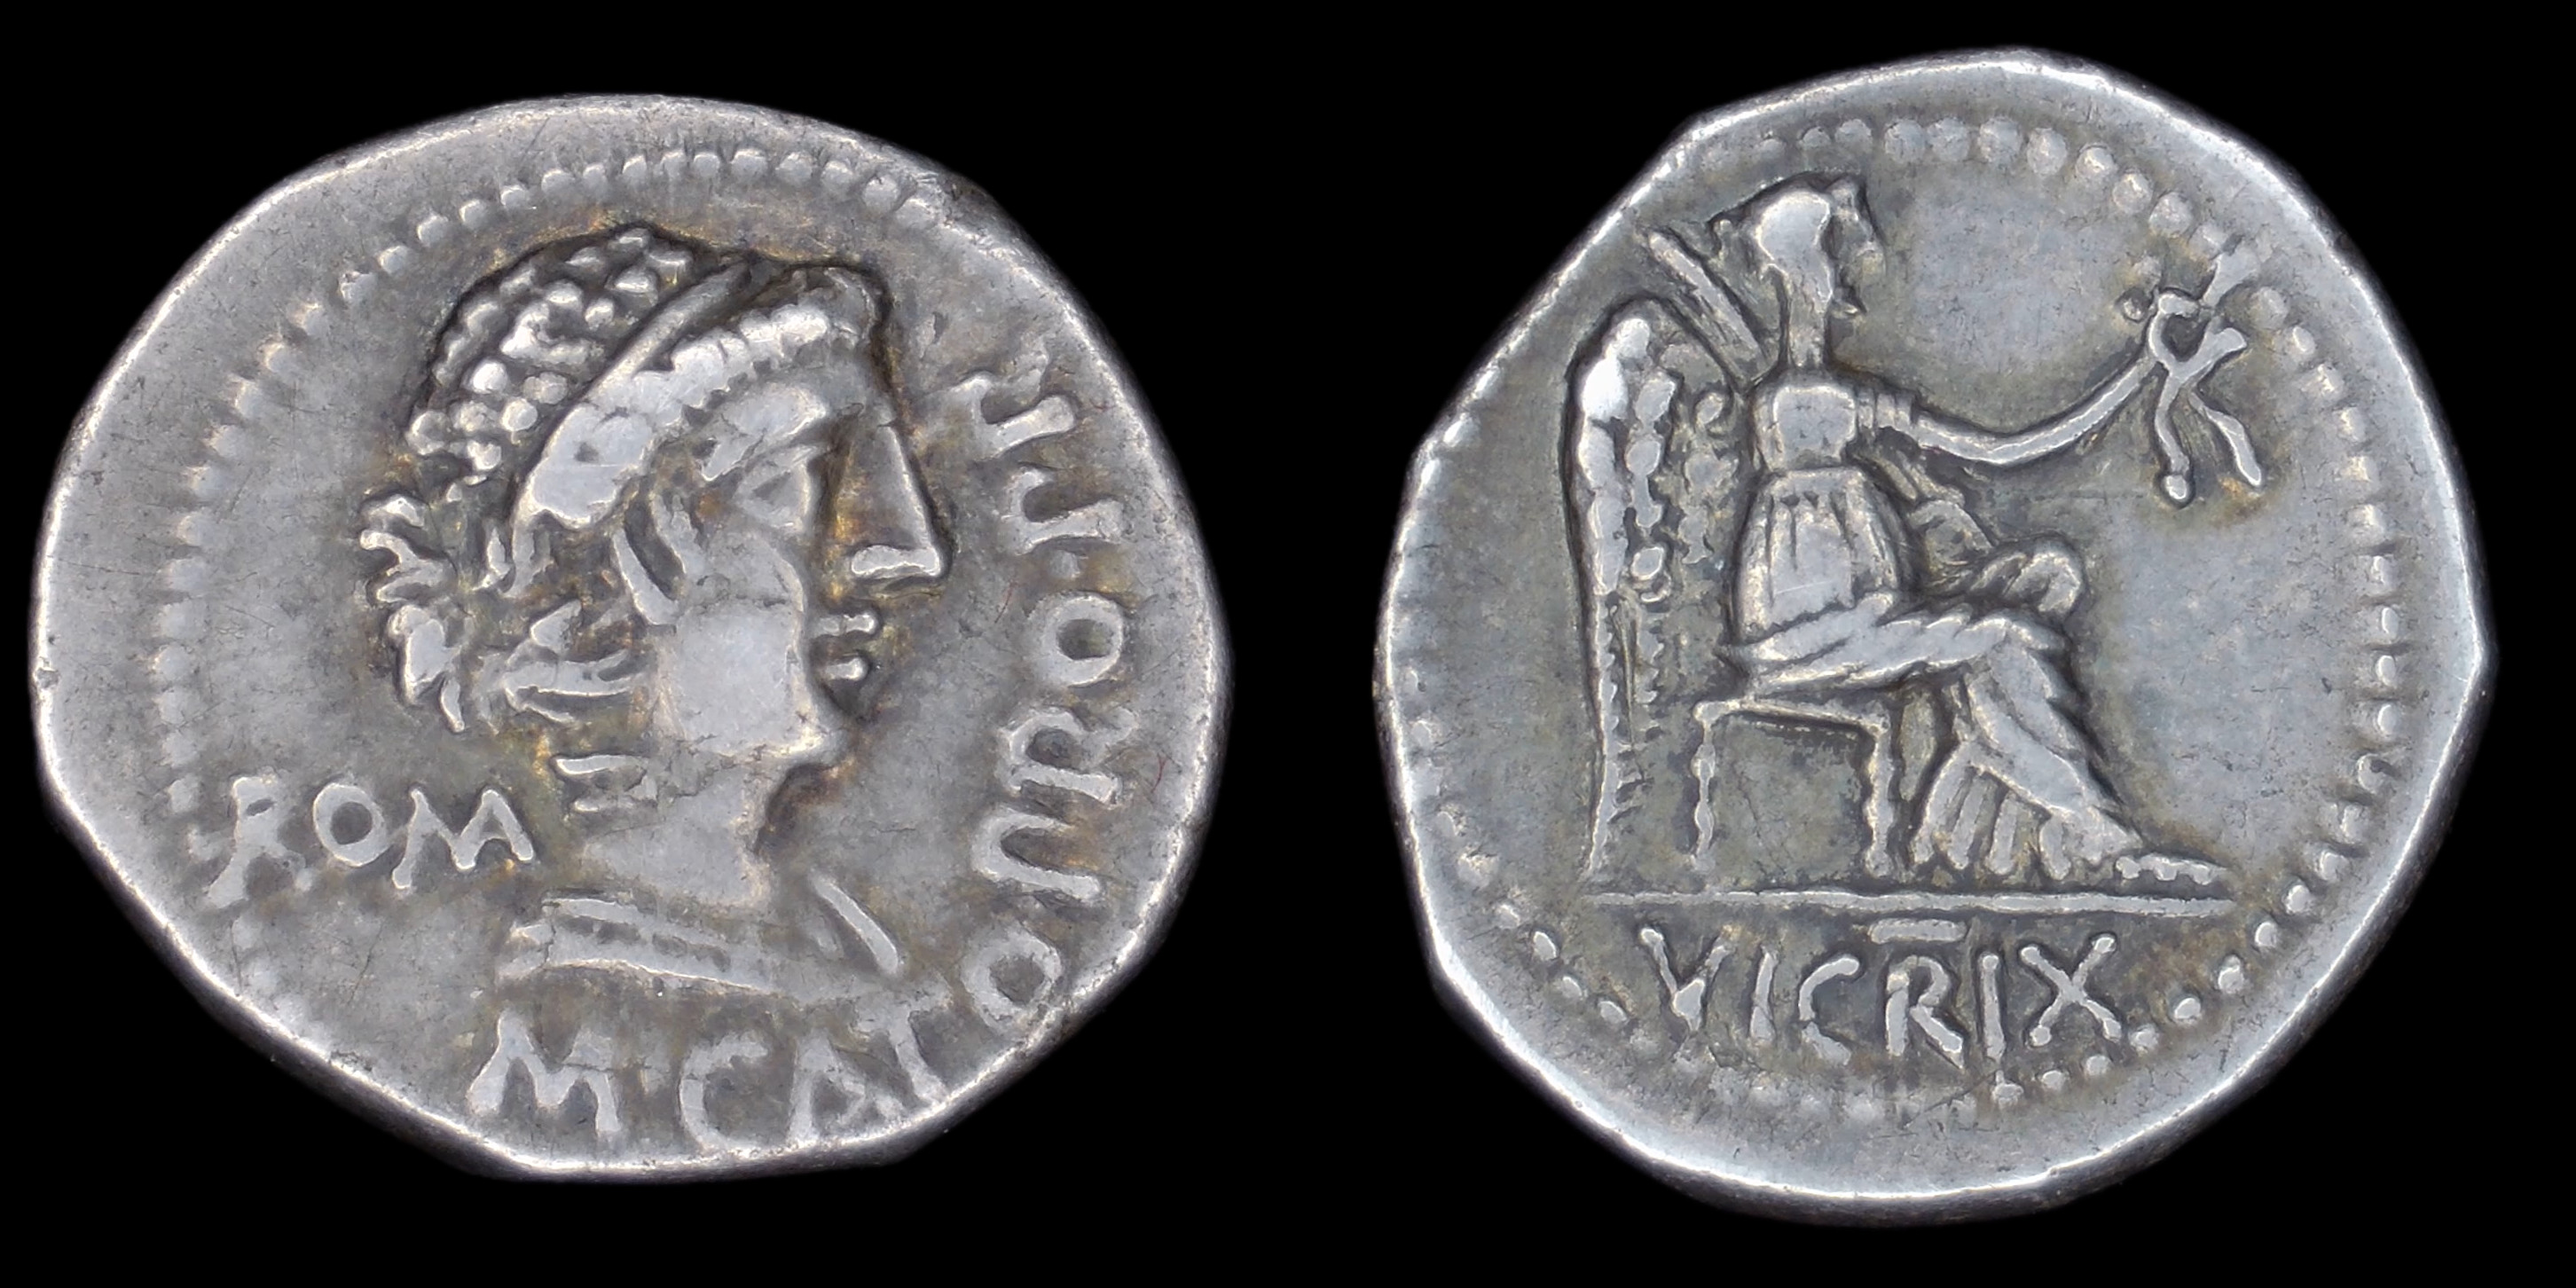
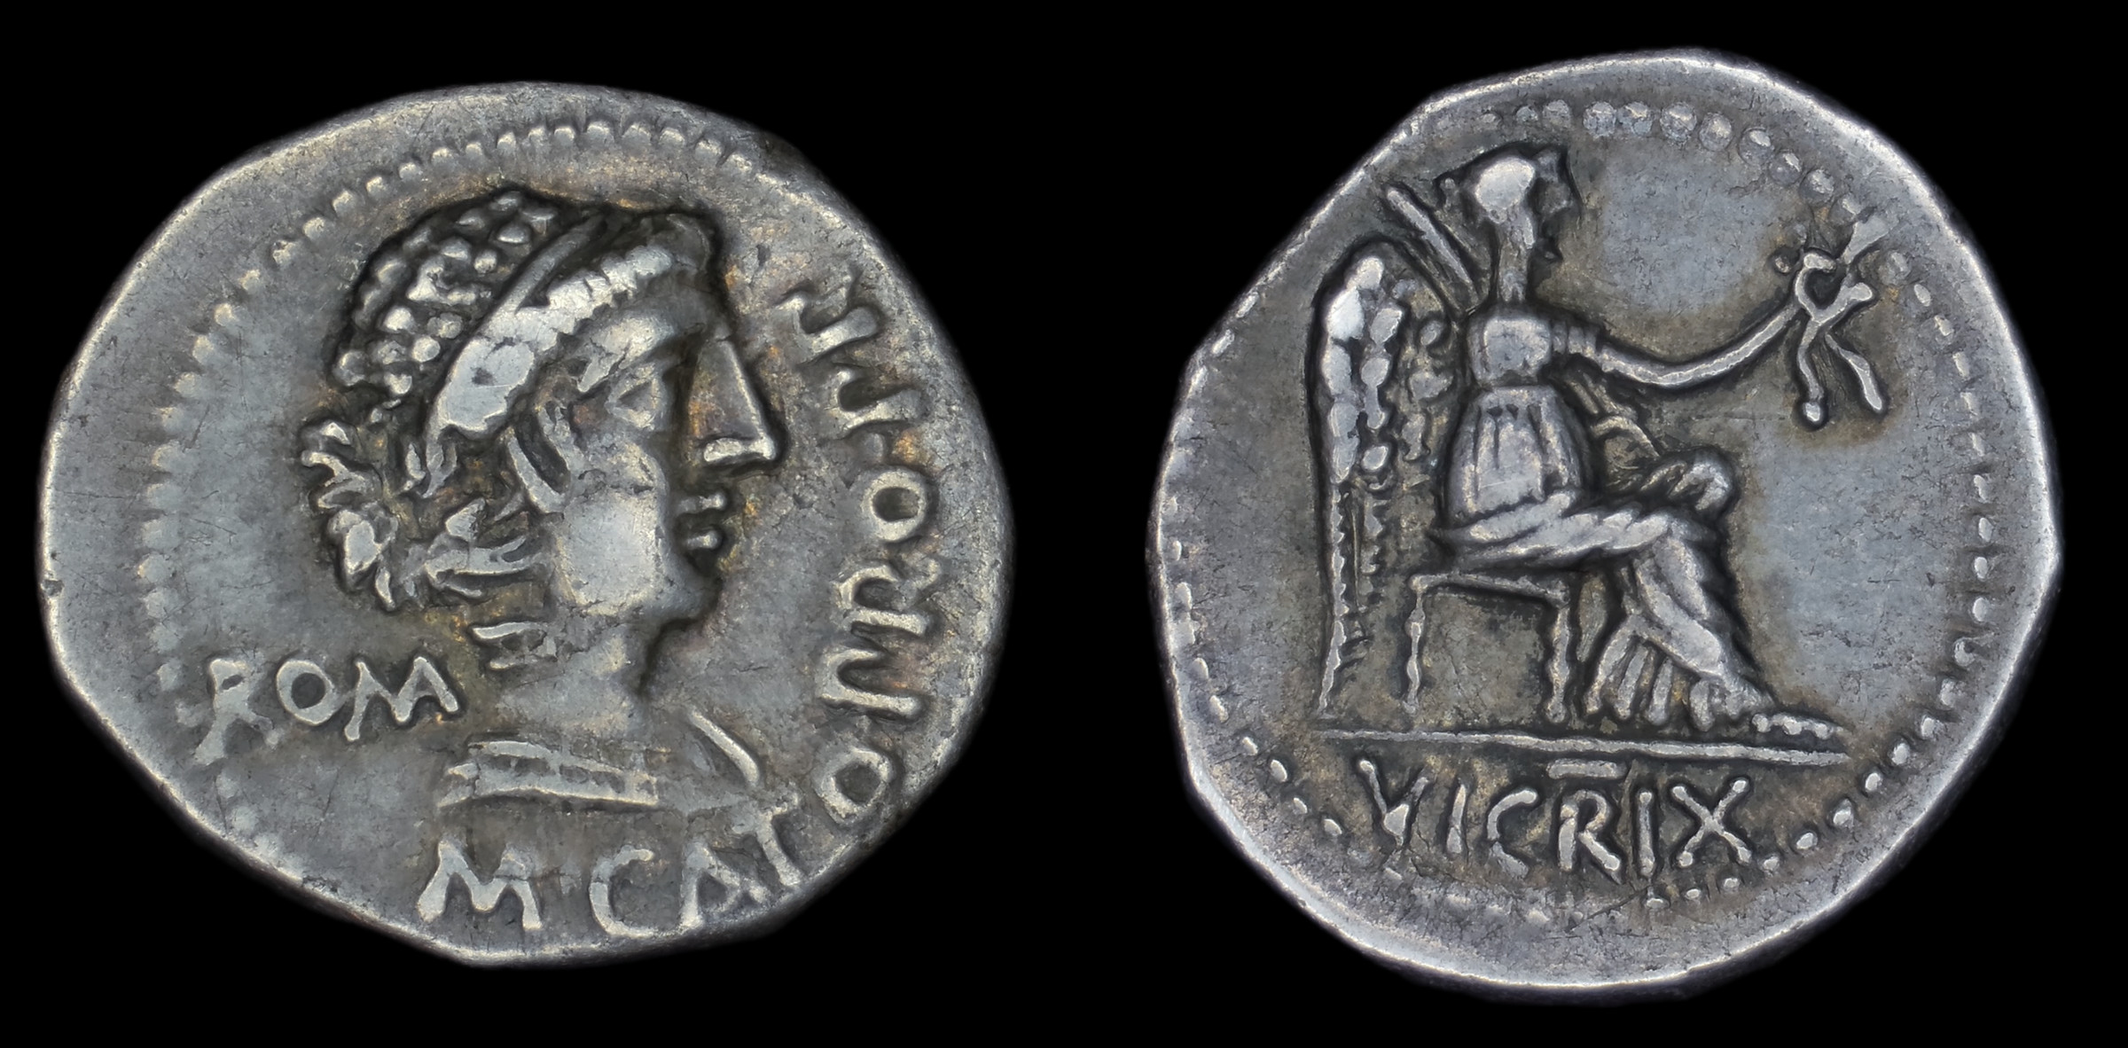
Update images

diff --git a/_coins/m_porcius_cato.md b/_coins/m_porcius_cato.md
@@ -12,12 +12,10 @@ metal: Silver
 weight: "4.14g"
 diameter: "19mm"
 grade: "VF"
-image_obverse: coins/m_porcius_cato/cato-obv.png
-image_reverse: coins/m_porcius_cato/cato-rev.png
+image_obverse: coins/m_porcius_cato/cato-obv.jpg
+image_reverse: coins/m_porcius_cato/cato-rev.jpg
 image_aligned: coins/m_porcius_cato/cato-aligned.jpg
 obverse_description: "Draped busted of female (Roma? or Libertas?) right with hair collected in knot; ROMA behind; M CATO PRO PR before"
 reverse_description: "Victory seated right holding wreath in right hand; VICTRIX (TR ligatured) in exergue below; border of dots"
 featured: false
 ---
-
-Photos copyright Classical Numismatics Group.
